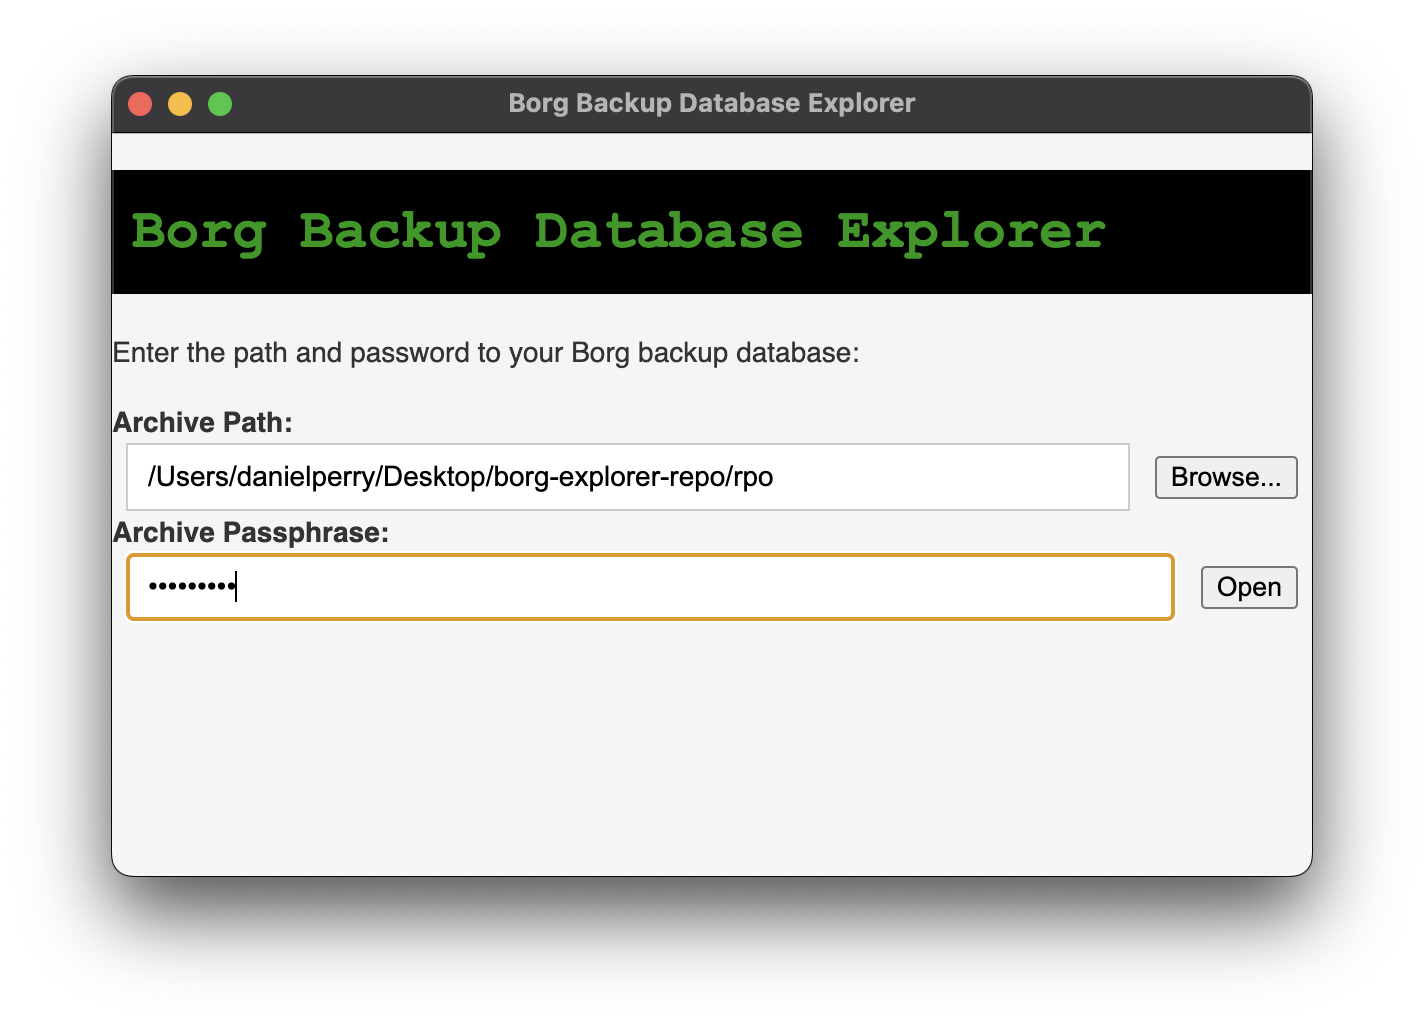
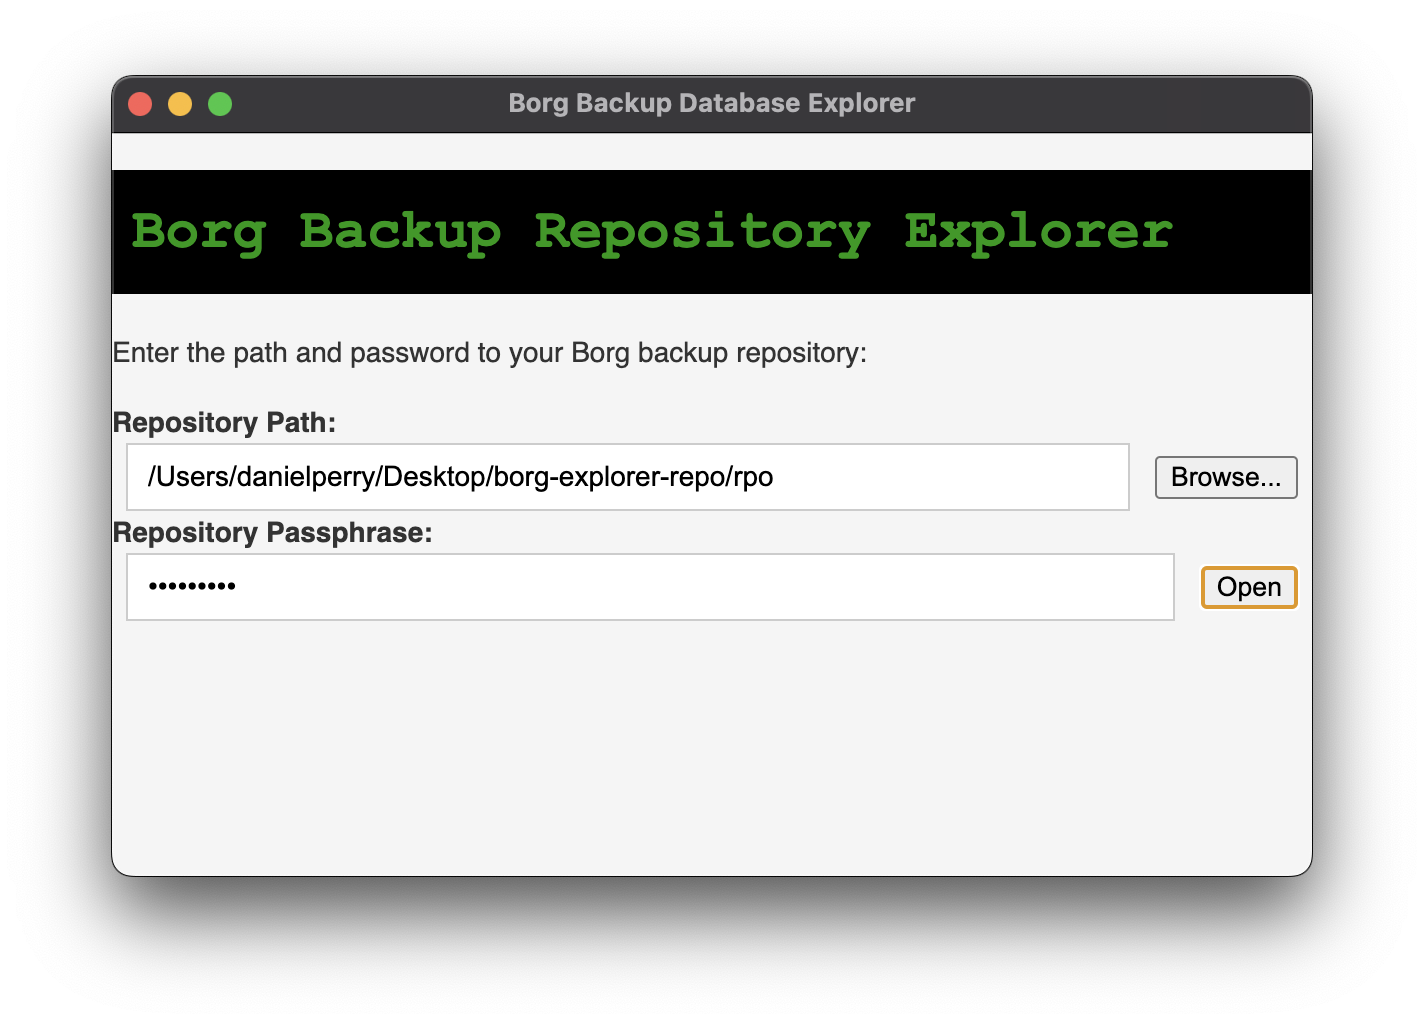
'database'/'archive' -> 'repository'

diff --git a/borg-explorer/src/index.html b/borg-explorer/src/index.html
@@ -7,11 +7,11 @@
     <link rel="stylesheet" type="text/css" href="index.css" />
   </head>
   <body>
-    <h1>Borg Backup Database Explorer</h1>
-    <p>Enter the path and password to your Borg backup database:</p>
+    <h1>Borg Backup Repository Explorer</h1>
+    <p>Enter the path and password to your Borg backup repository:</p>
     <div id="error-message" class="error-message"></div>
     <div class="label">
-      Archive Path:
+      Repository Path:
     </div>
     <div class="flex-container-horiz">
       <div class="flex-container-item" style="flex-grow:1">
@@ -22,7 +22,7 @@
       </div>
     </div>
     <div class="label">
-      Archive Passphrase:
+      Repository Passphrase:
     </div>
     <div class="flex-container-horiz">
       <div class="flex-container-item" style="flex-grow:1">

diff --git a/readme.md b/readme.md
@@ -1,6 +1,6 @@
-# Borg Backup Database Explorer
+# Borg Backup Repository Explorer
 
-This repository contains a personal project that is a simple GUI explorer for a Borg backup database.
+This repository contains a personal project that is a simple GUI explorer for a Borg backup repository.
 
 This project is is a **⚠Work In Progress⚠**, and it is not guaranteed to be completed or maintained.
 
